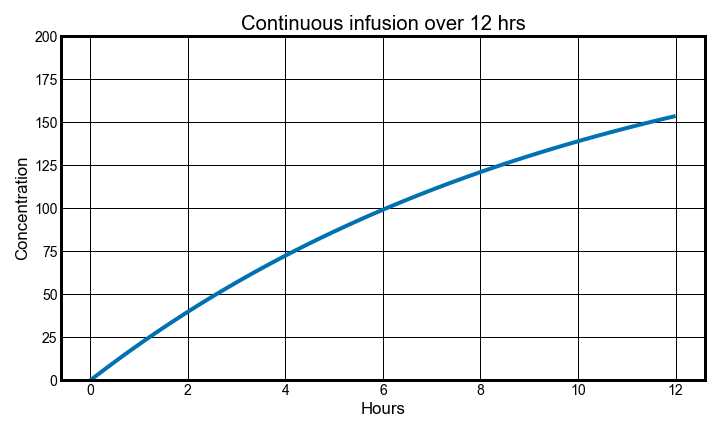
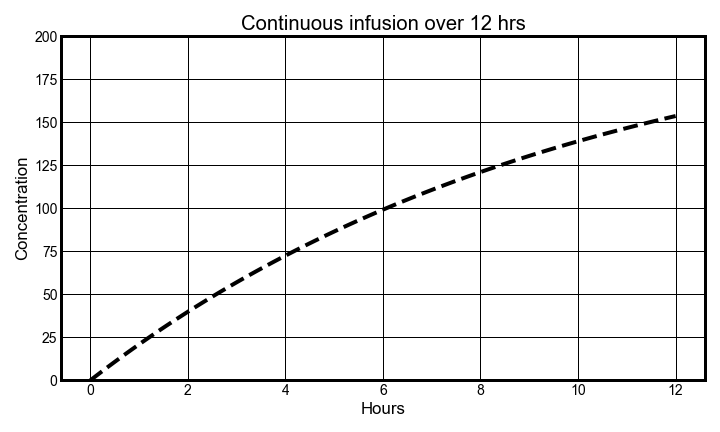
added continuous infusion graph

diff --git a/.virtual_documents/vanco-auc.ipynb.py b/.virtual_documents/vanco-auc.ipynb.py
@@ -22,7 +22,7 @@ CL_vanco = K_e * V_d
 X = np.linspace(0,tau,100) 
 Y = [c_inf(t) for t in X]
 plt.figure(figsize = (10,6))
-plt.plot(X,Y)
+plt.plot(X,Y,'--k')
 
 plt.title("Continuous infusion over 12 hrs")
 plt.style.use(plt.style.available[8])

diff --git a/README.md b/README.md
@@ -127,26 +127,19 @@ def c_inf(t):
 c_{inf}(t) = \frac{R_0}{CL_{vanco}}(1 - e^{-K_e * t}) [2]</blockquote></details>
     
 </details>
-
-<details><summary>Plot</summary>
     
 ![](Images/cont_infusion.png)
-
+    
 ### b.) Elimination Equation
 
 - After infusing, now, we need to start using an elimination equation.  Here's the 1st-order elimination equation.
 
-    ![](Images/celim_eqn.png)
+<blockquote>
+<img src="Images/celim_eqn.png" width="50%"></blockquote>
 
 
-### Random PK Variables
 
-```
-Dose = 1000 # mgs
-t_inf = 1 # hrs
-K_e = 0.100 
-V_d = 50 # L
-```
+
 
 
 
